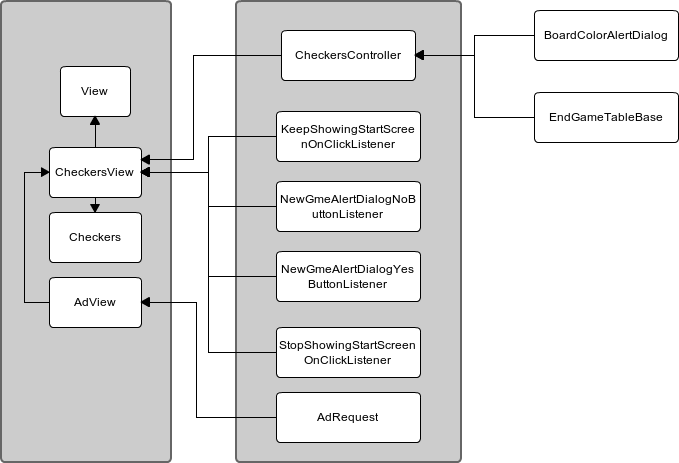
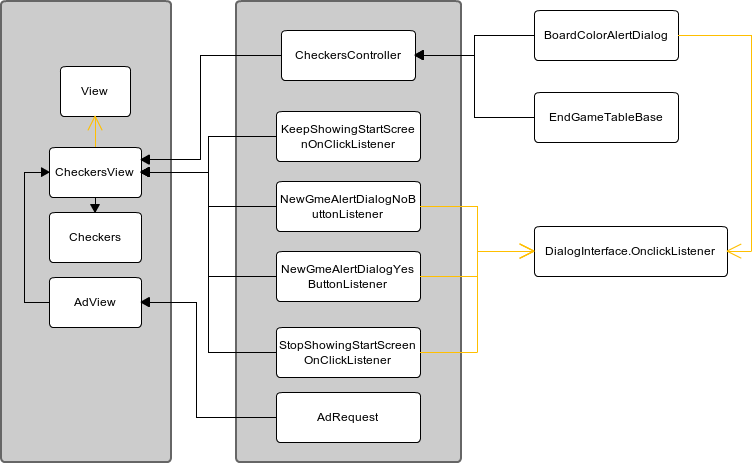
complément du rapport, ajout quelques images, to be continued if need to add something else

Changed region(s): [[0.0309, 0.0, 1.0, 1.0], [0.8969, 0.1814, 0.9278, 0.2117], [0.1237, 0.4233, 0.1546, 0.4536]]

diff --git a/rapport/documentation/checkers.tex b/rapport/documentation/checkers.tex
@@ -5,15 +5,29 @@ l'application Checkers (principe), décompilation, un bytecode obscure
 dex2jar, jd-gui, correction des erreurs, éclaircissement du code, une archi mvc.
 Fonctionnement de l'appli en interne
 \subsubsection{Principe}
-
+\begin{figure}[hp]
+	      \begin{center}
+		\fbox{\includegraphics[scale=0.5]{principe}}
+	      \end{center}
+	\legend{Principe}
+\end{figure}
+Le jeu est composé de 8 cases sur 8, c’est-à-dire 4 cases en moins que le jeu de dame classique.  Se joue en deux modes : utilisateur contre ordinateur ou utilisateur contre utilisateur.\\
+Un joueur peut choisir une couleur (des pions/dames noires ou des pions/dames blanche).  Le jeu est initialement constitué de 3 lignes de 4 pions espacés d’une case. Chaque pion/dame peut se déplacer en diagonale. 
+Un pion se transforme en une dame (K) lorsqu’il arrive à la dernière ligne du camp de l’adversaire. Une dame ou un pion peut faire une prise en faisant un déplacement en diagonal. Mais une dame possède l’avantage de traverser plusieurs lignes vide.\\
+Un joueur est désigné gagnant si l’adversaire ne possède plus de dames ou de pions. 
 \subsubsection{Décompilation et analyse du code}
 
+\newpage
 \subsubsection{Architecture}
 Dans un point de vue général, le développeur du jeu Checkers a adopté une architecture MVC. Ce qui nous a beaucoup aidé à determiner les différentes 
 classes. 
 \begin{figure}[hp]
 	      \begin{center}
-		\fbox{\includegraphics[scale=0.7]{archi}}
+		\fbox{\includegraphics[scale=0.6]{archi}}
 	      \end{center}
 	\legend{architecture}
 \end{figure}
+La classe Checkers est la classe principale de l’application.
+La classe CherckersView (b.smali) hérite de la classe android.view.View qui gére les vues de l’application. La classe AdView gère la vue pour la publicité.
+CheckersController (a.smali) est le controleur principal de l’application. Les classes KeepShowingStartScreenOnclickListener (e.smali), NewGameAlertDialogNoButtonListener (d.smali), NewGameAlertDialogYesButtonListener (c.smali) et StopShowingStartScreenOnclickListener (f.smali) implémente l'interface DialogInterface.OnclickListener sont les classes qui gère les clics.
+AdRequest est la classe qui est responsable du chargement de la publicité.

diff --git a/rapport/rapport/difficultesRencontrees.tex b/rapport/rapport/difficultesRencontrees.tex
@@ -24,9 +24,5 @@ Dur à comprendre et modifier.
 
 \subsection{Un code obscur}
 
-% TODO
-Obscurtion du code de Checkers.
-Suppression à la main des erreurs de décompilation.
-Analyse.
-Refactoring des variables et méthodes.
-
+Après la décompilation et le passage du code smali en code java, nous avons eu des codes qui sont totalement obscur car les noms des classes et des variables étaient représentés par des lettres de l’alphabet.
+Pour nous aider à mieux comprendre le fonctionnement du checkers, il nous a fallu supprimer les erreurs générées et de faire du refactoring car le code java était totalement en désordre.
